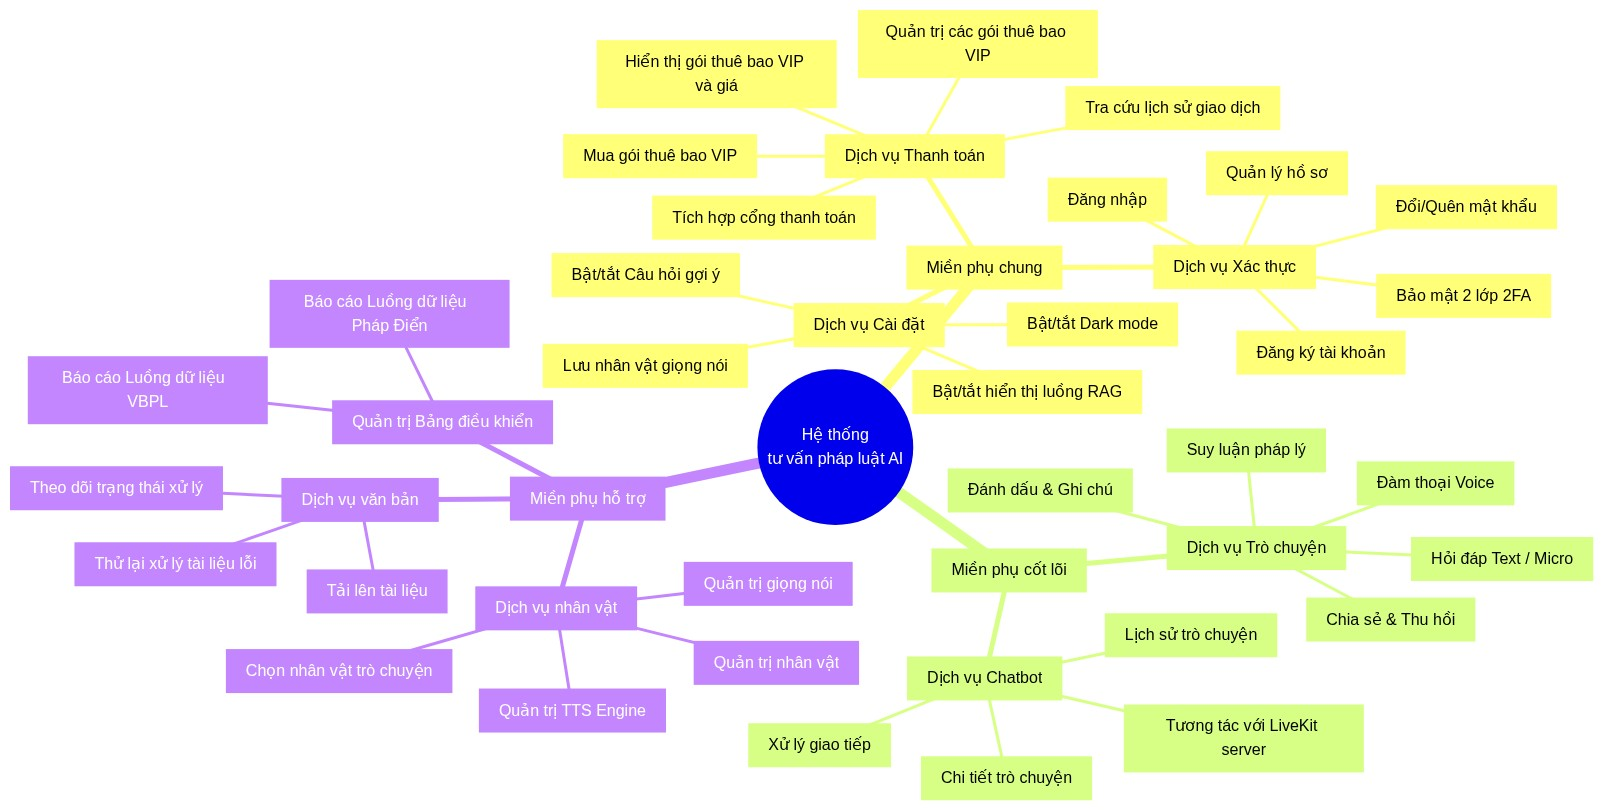
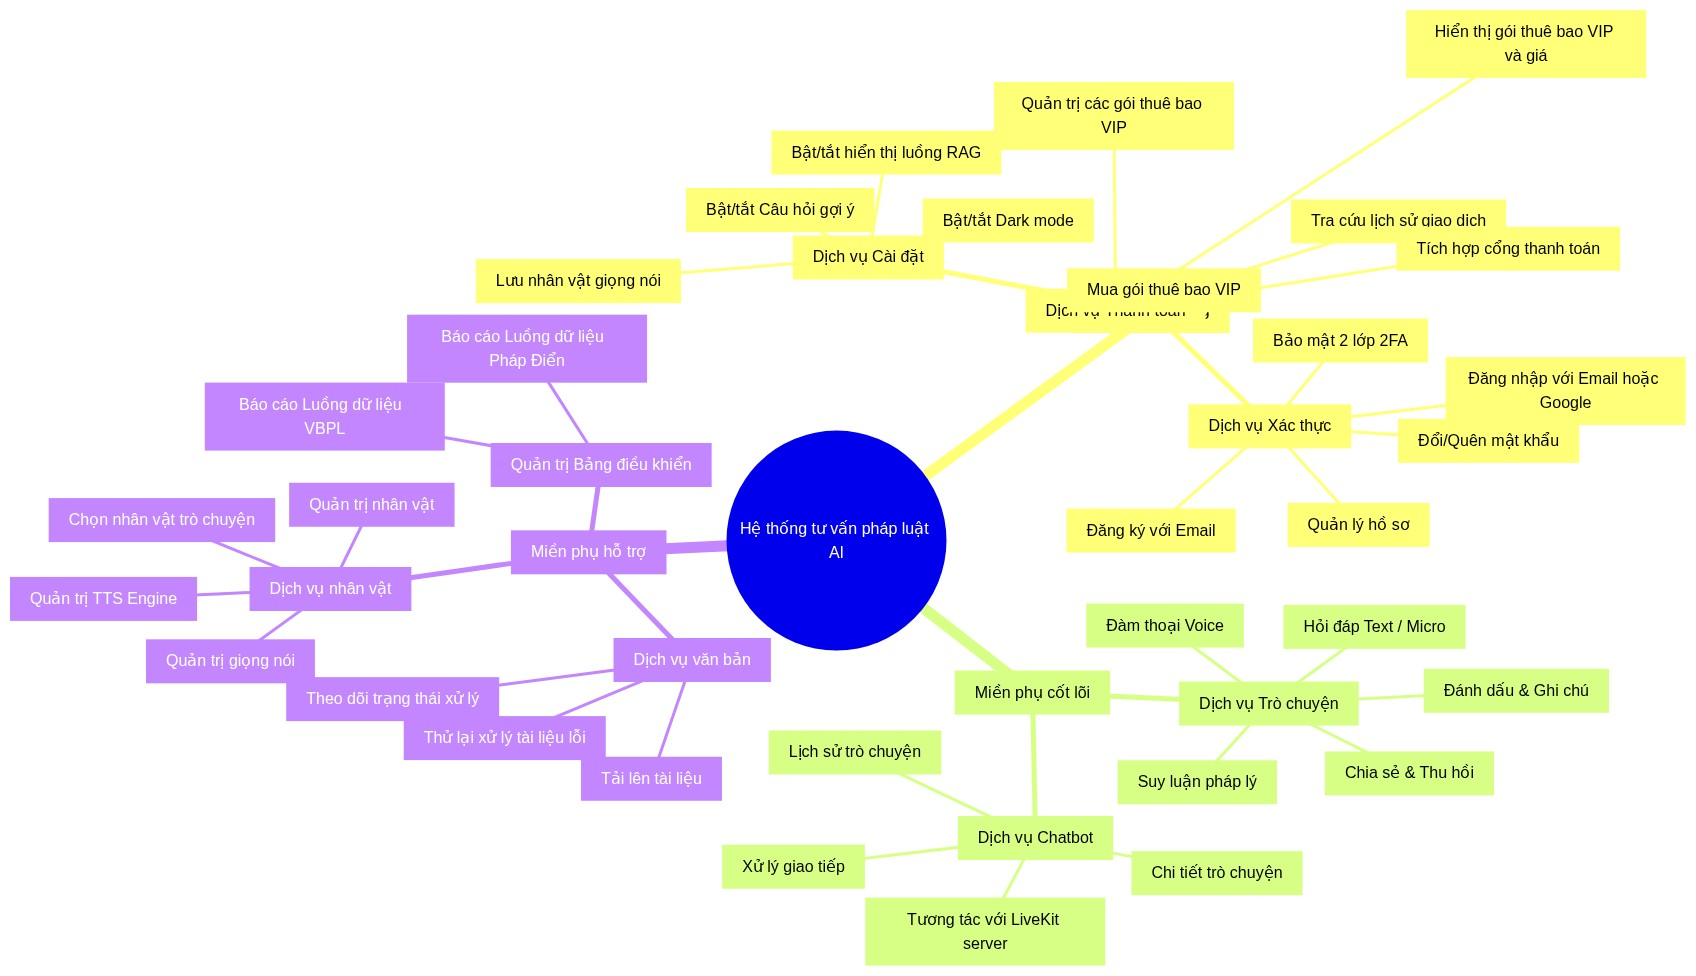
eg

diff --git a/latex/contents/Dac_diem_nguoi_dung_he_thong.tex b/latex/contents/Dac_diem_nguoi_dung_he_thong.tex
@@ -17,8 +17,8 @@ và trải nghiệm thử các tính năng công khai.
 Có thể xem trang chủ bao gồm các thông tin:
 giới thiệu hệ thống, bảng giá các gói thuê bao VIP
 và nghe thử các mẫu giọng nói của các nhân vật.
-Bên cạnh đó, họ có thể đăng ký tài khoản mới
-hoặc đăng nhập vào hệ thống (qua Email hoặc Google).
+Bên cạnh đó, họ có thể đăng ký tài khoản với Email
+hoặc đăng nhập với Email hoặc Google.
 
 \item \textbf{Người dùng cơ bản (User):}
 Là những cá nhân đã đăng ký, đăng nhập

diff --git a/latex/contents/SubDomain-Generic.tex b/latex/contents/SubDomain-Generic.tex
@@ -4,7 +4,7 @@
 
 \item Dịch vụ xác thực (auth service - dùng supabase)
 \begin{itemize}
-\item Người dùng đăng ký tài khoản mới hoặc đăng nhập bằng Email, Google
+\item Người dùng đăng ký tài khoản với Email hoặc đăng nhập bằng Email, Google
 \item Người dùng xem thông tin cá nhân và cập nhật tên, cập nhật ảnh avatar
 \item Người dùng có thể đổi mật khẩu hoặc dùng quên mật khẩu
 \item Xác thực 2FA bằng TOTP (bắt buộc vì dữ liệu pháp luật cần bảo mật, hỗ trợ đổi thiết bị TOTP)

diff --git a/latex/index.tex b/latex/index.tex
@@ -10,9 +10,9 @@
 % \input{contents/0/loi_cam_on_tom_tat/loi_cam_on_tom_tat}
 \input{contents/0/muc_luc/muc_luc}
 
-% \input{contents/0/danh_muc/DANH_MUC_KY_HIEU}
-% \input{contents/0/danh_muc/DANH_MUC_HINH_VE}
-% \input{contents/0/danh_muc/DANH_MUC_BANG_BIEU}
+\input{contents/0/danh_muc/DANH_MUC_KY_HIEU}
+\input{contents/0/danh_muc/DANH_MUC_HINH_VE}
+\input{contents/0/danh_muc/DANH_MUC_BANG_BIEU}
 
 \input{doc}
 
